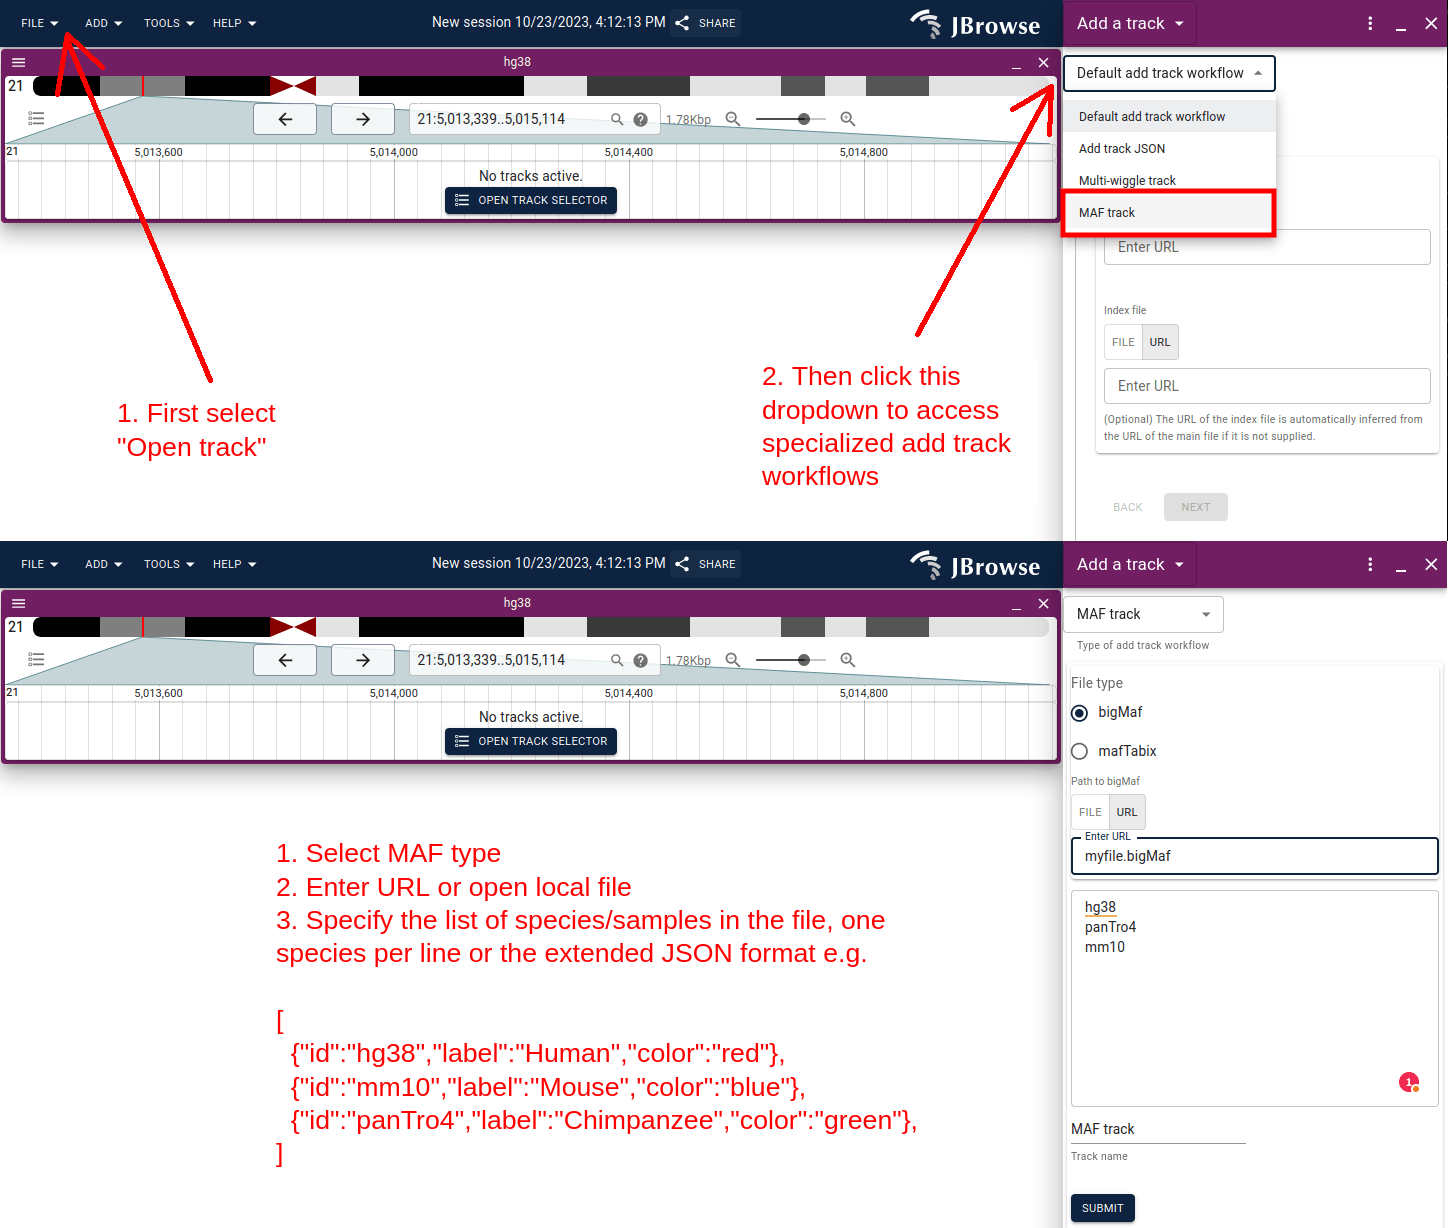
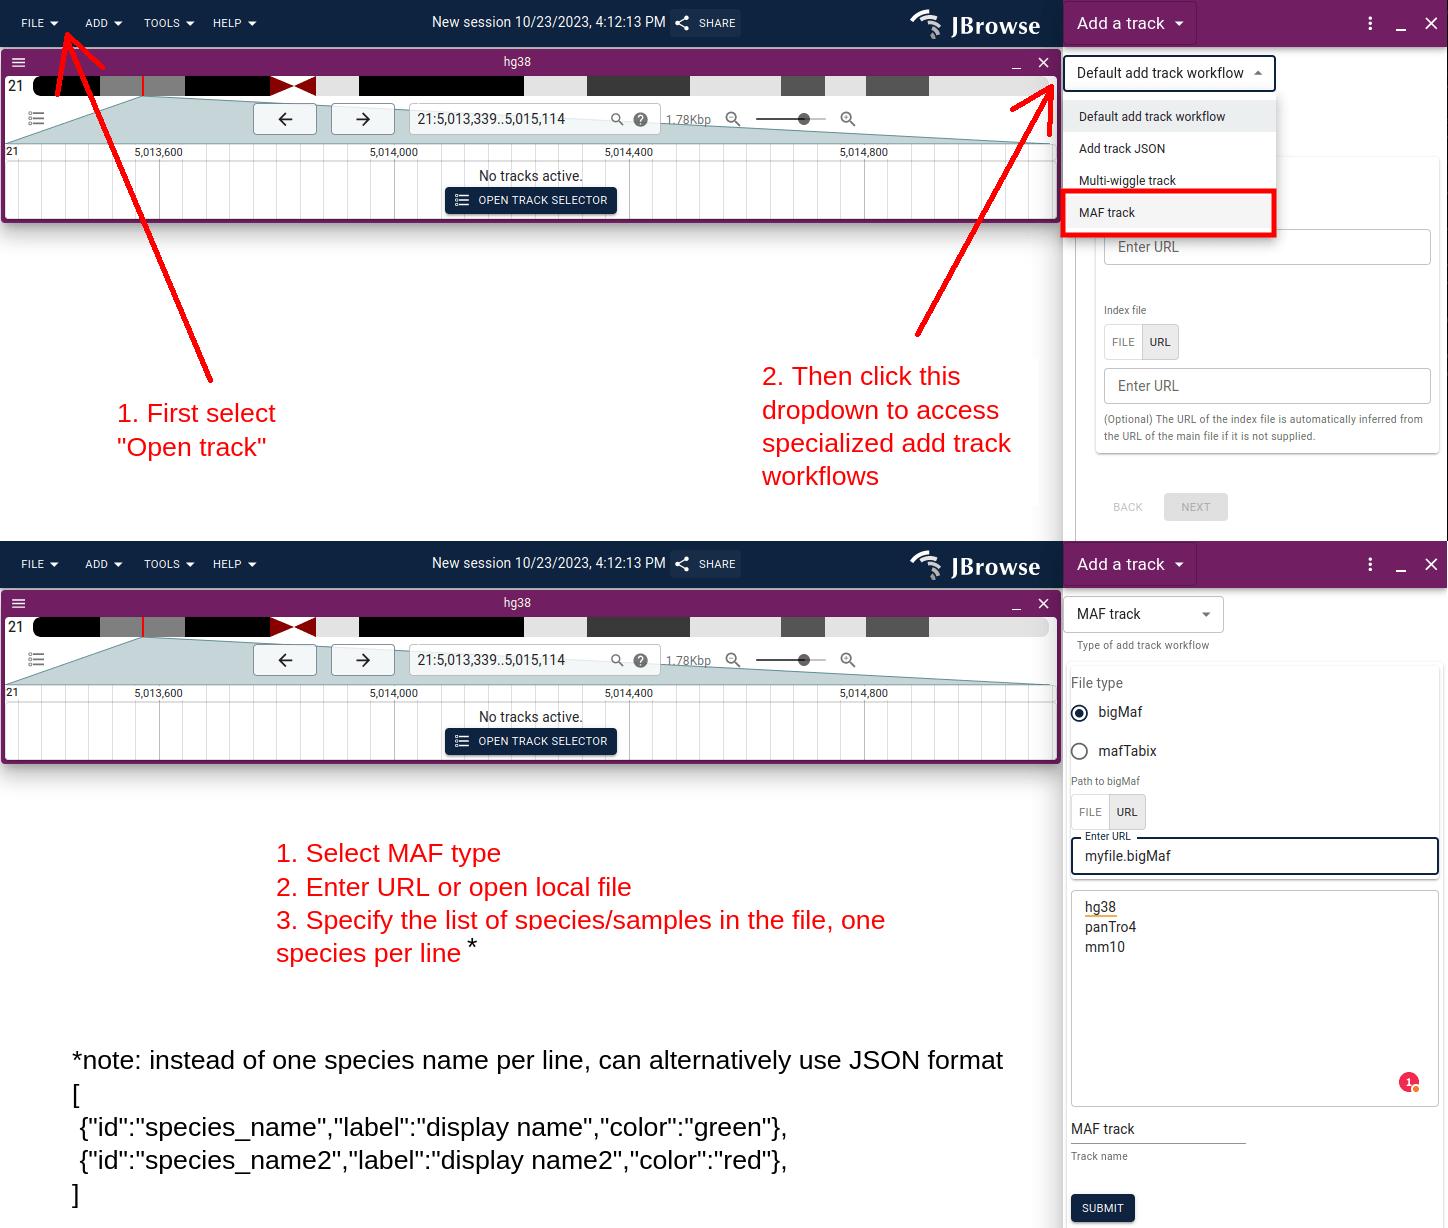
Update README.md

Changed region(s): [[0.0622, 0.8355, 0.6215, 0.9593], [0.3419, 0.7736, 0.5905, 0.8046], [0.5905, 0.8355, 0.6837, 0.8664]]

diff --git a/README.md b/README.md
@@ -16,6 +16,12 @@ https://jbrowse.org/code/jb2/v2.7.1/?config=%2Fdemos%2Fmafviewer%2Fhg38%2Fconfig
 This short screenshot workflow shows how you can load your own custom MAF files
 via the GUI
 
+First install the plugin via the plugin store
+
+![](img/3.png)
+
+Then use the custom "Add track workflow"
+
 ![](img/2.png)
 
 ## Manual config entry
